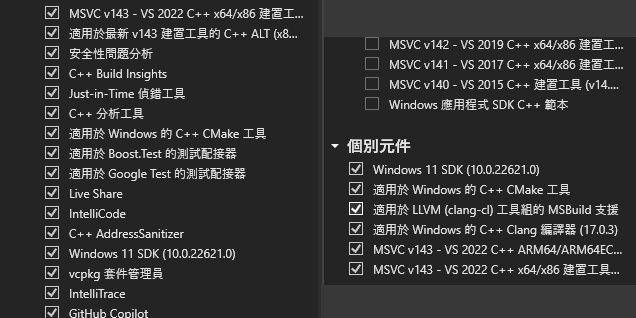
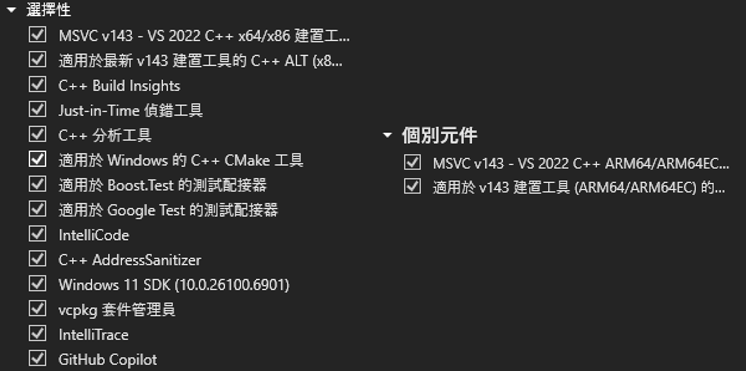
[ai_sys/aom-dk2721] Update vs2022 install flow

diff --git a/ai_system/qualcomm/aom-dk2721/windows/object_detection_demo-using-qc_ai_hub.md b/ai_system/qualcomm/aom-dk2721/windows/object_detection_demo-using-qc_ai_hub.md
@@ -156,7 +156,19 @@ Copy the optimized AI model(`yolov11_det_w8a16.dlc`) to target device
 ##### Environment
  - CMake 3.30.4
  - Visual Studio 2022 (with `Desktop development with C++` workload)
-   ![](assets/vs_lib.png)
+   * **Step 1. Select Base Workload**
+      In the Installer, select the `Desktop development with C++` workload.
+      
+    * **Step 2. Enable ARM64 Support (Crucial)**
+      By default, the workload only includes x64/x86 tools. You must manually select the ARM64 compiler for cross-compilation.
+      
+      Go to `Individual components` and check:
+      ![ARM64 Selection](assets/arm64-compiler.png)
+
+    * **Step 3. Verify Configuration**
+      Ensure your complete installation matches the list below:
+      ![Full Configuration Reference](assets/vs_lib.png)
+
 
 ---
 

diff --git a/ai_system/qualcomm/aom-dk2721/windows/object_detection_demo-using-qc_snpe.md b/ai_system/qualcomm/aom-dk2721/windows/object_detection_demo-using-qc_snpe.md
@@ -207,7 +207,18 @@ ${SNPE_ROOT}/bin/x86_64-linux-clang/qairt-dlc-info -i yolov11n-quant.dlc
 
  - CMake 3.30.4
  - Visual Studio 2022 (with `Desktop development with C++` workload)
-   ![](assets/vs_lib.png)
+   * **Step 1. Select Base Workload**
+      In the Installer, select the `Desktop development with C++` workload.
+      
+    * **Step 2. Enable ARM64 Support (Crucial)**
+      By default, the workload only includes x64/x86 tools. You must manually select the ARM64 compiler for cross-compilation.
+      
+      Go to `Individual components` and check:
+      ![ARM64 Selection](assets/arm64-compiler.png)
+
+    * **Step 3. Verify Configuration**
+      Ensure your complete installation matches the list below:
+      ![Full Configuration Reference](assets/vs_lib.png)
 
 ---
 
